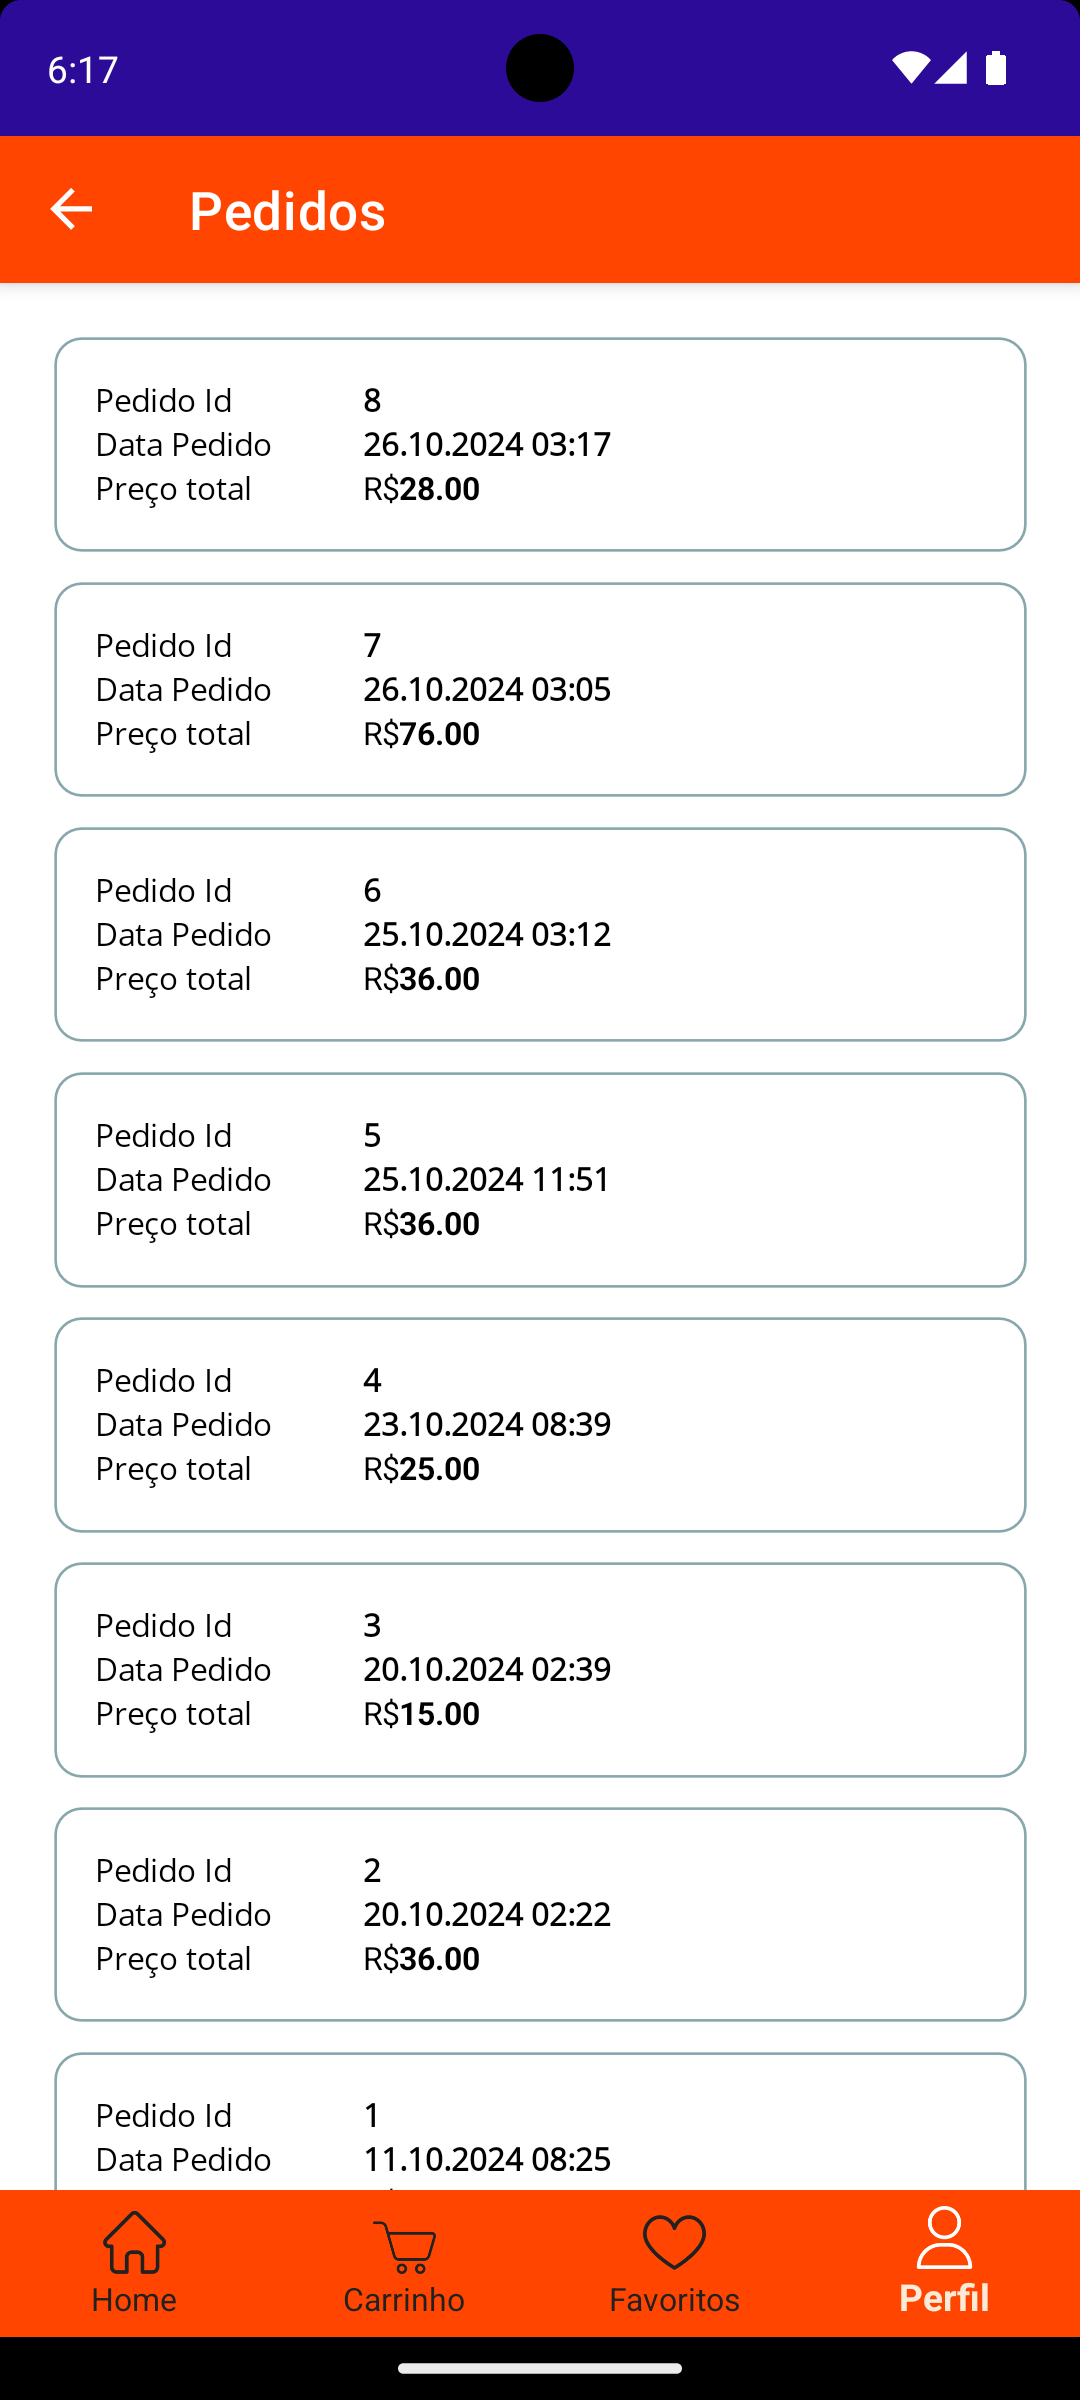
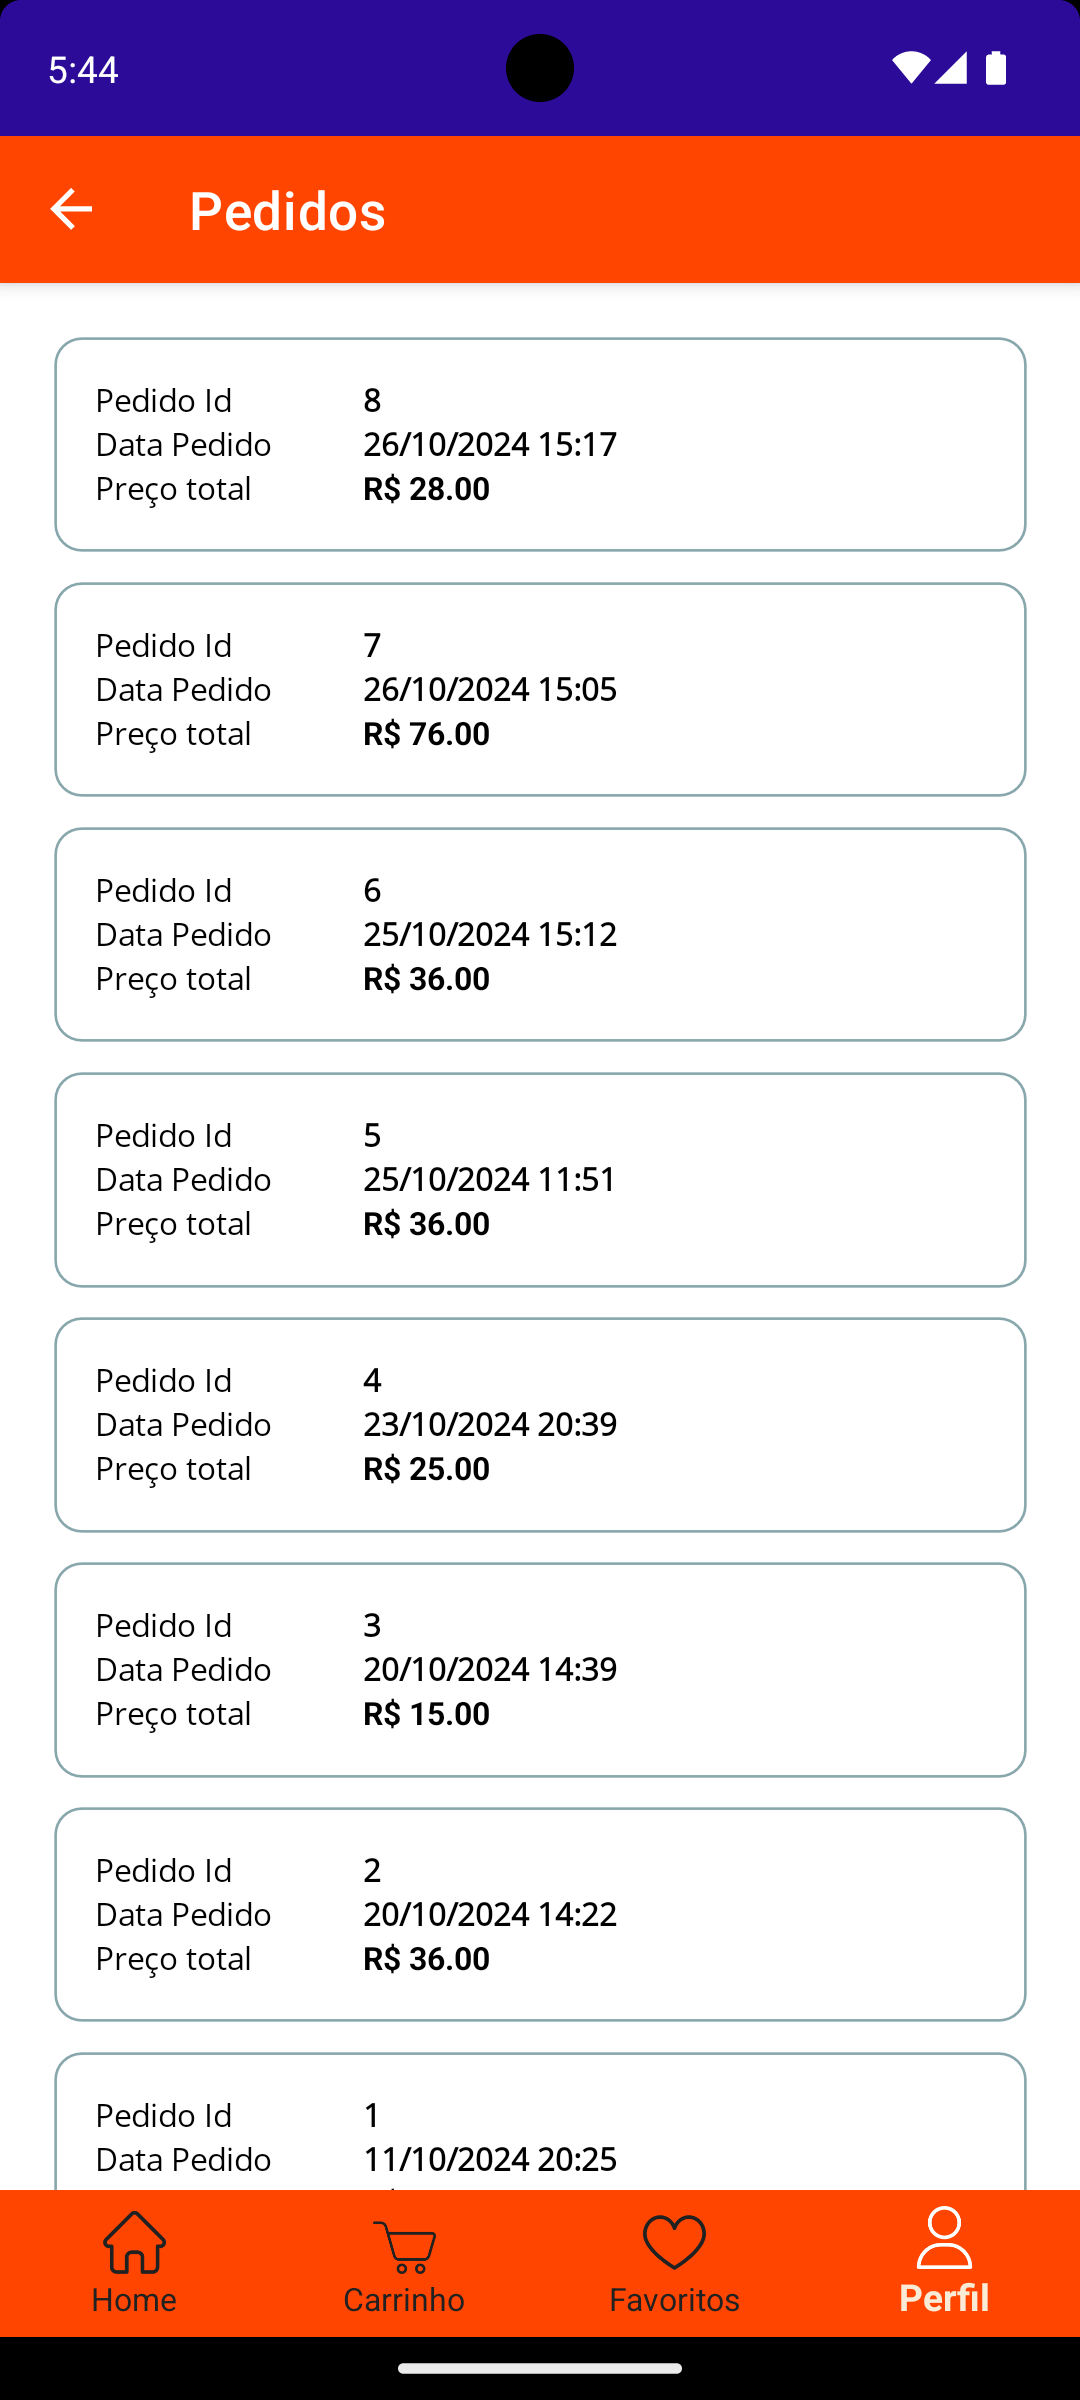
fix: alterada exibição de data e hora e adição de  screenshot

diff --git a/src/AppLanches/Pages/PedidosPage.xaml b/src/AppLanches/Pages/PedidosPage.xaml
@@ -46,7 +46,7 @@
                             <Label Grid.Row="1"
                                    Grid.Column="1"
                                    FontSize="12"  
-                                   Text="{Binding DataPedido, StringFormat='{0:dd.MM.yyyy hh:mm}'}"
+                                   Text="{Binding DataPedido, StringFormat='{0:dd/MM/yyyy HH:mm}'}"
                                    FontAttributes="Bold"/>
                             <Label Grid.Row="2"
                                    Grid.Column="0"
@@ -57,7 +57,7 @@
                                 <Label.FormattedText>
                                     <FormattedString>
                                         <FormattedString.Spans>
-                                            <Span Text="R$" FontSize="12"  />
+                                            <Span Text="R$ " FontAttributes="Bold" FontSize="12"  />
                                             <Span  Text="{Binding PedidoTotal}" FontAttributes="Bold" FontSize="12"  />
                                         </FormattedString.Spans>
                                     </FormattedString>
